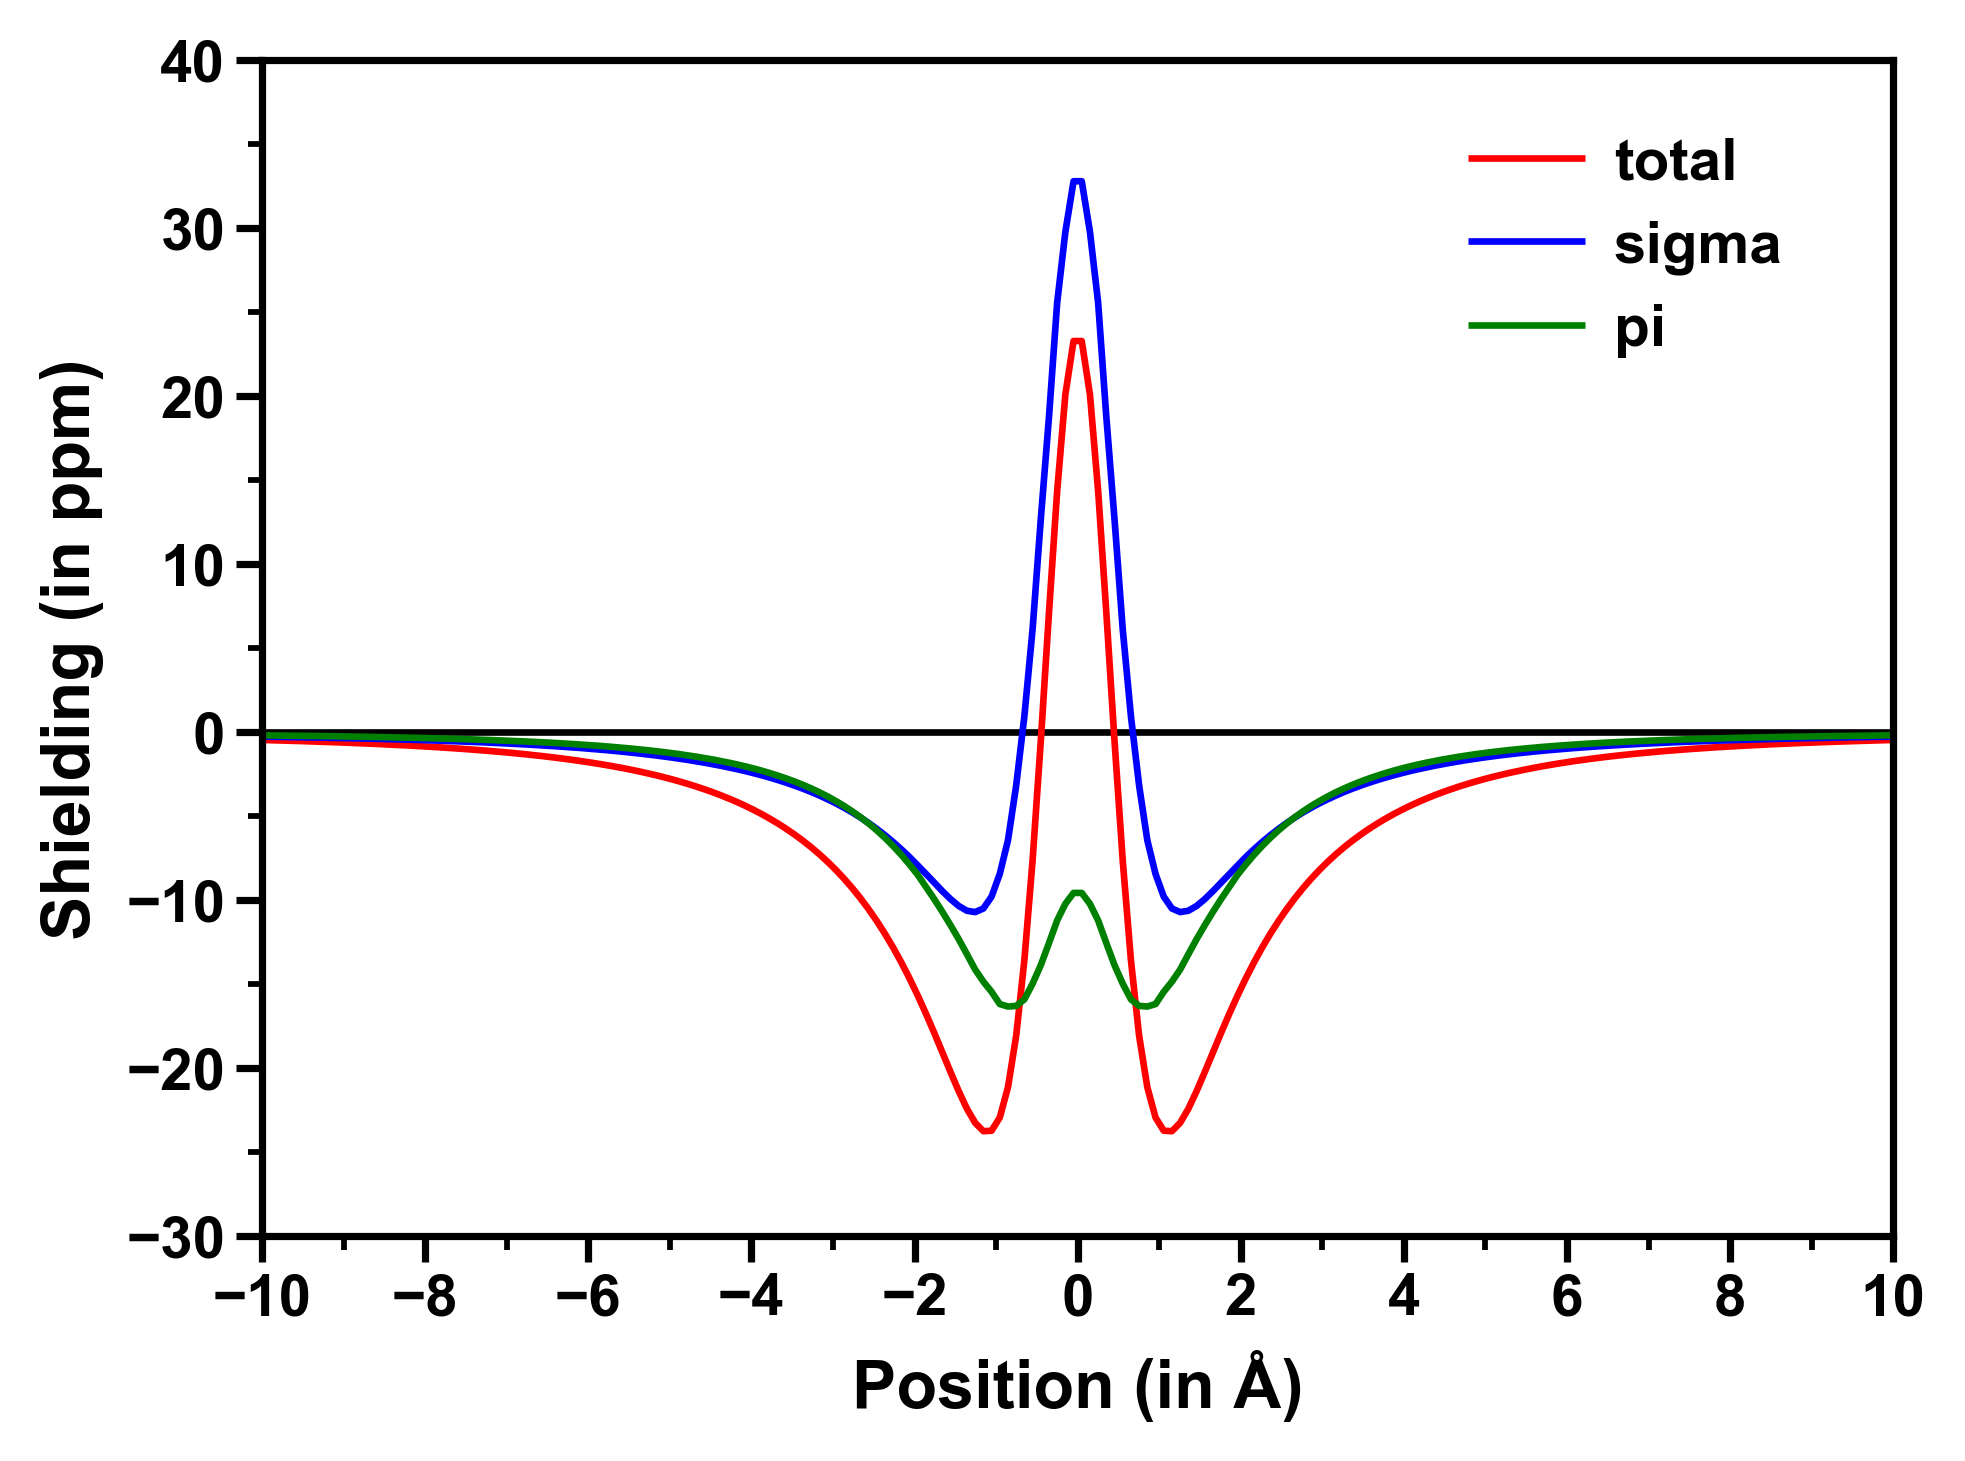
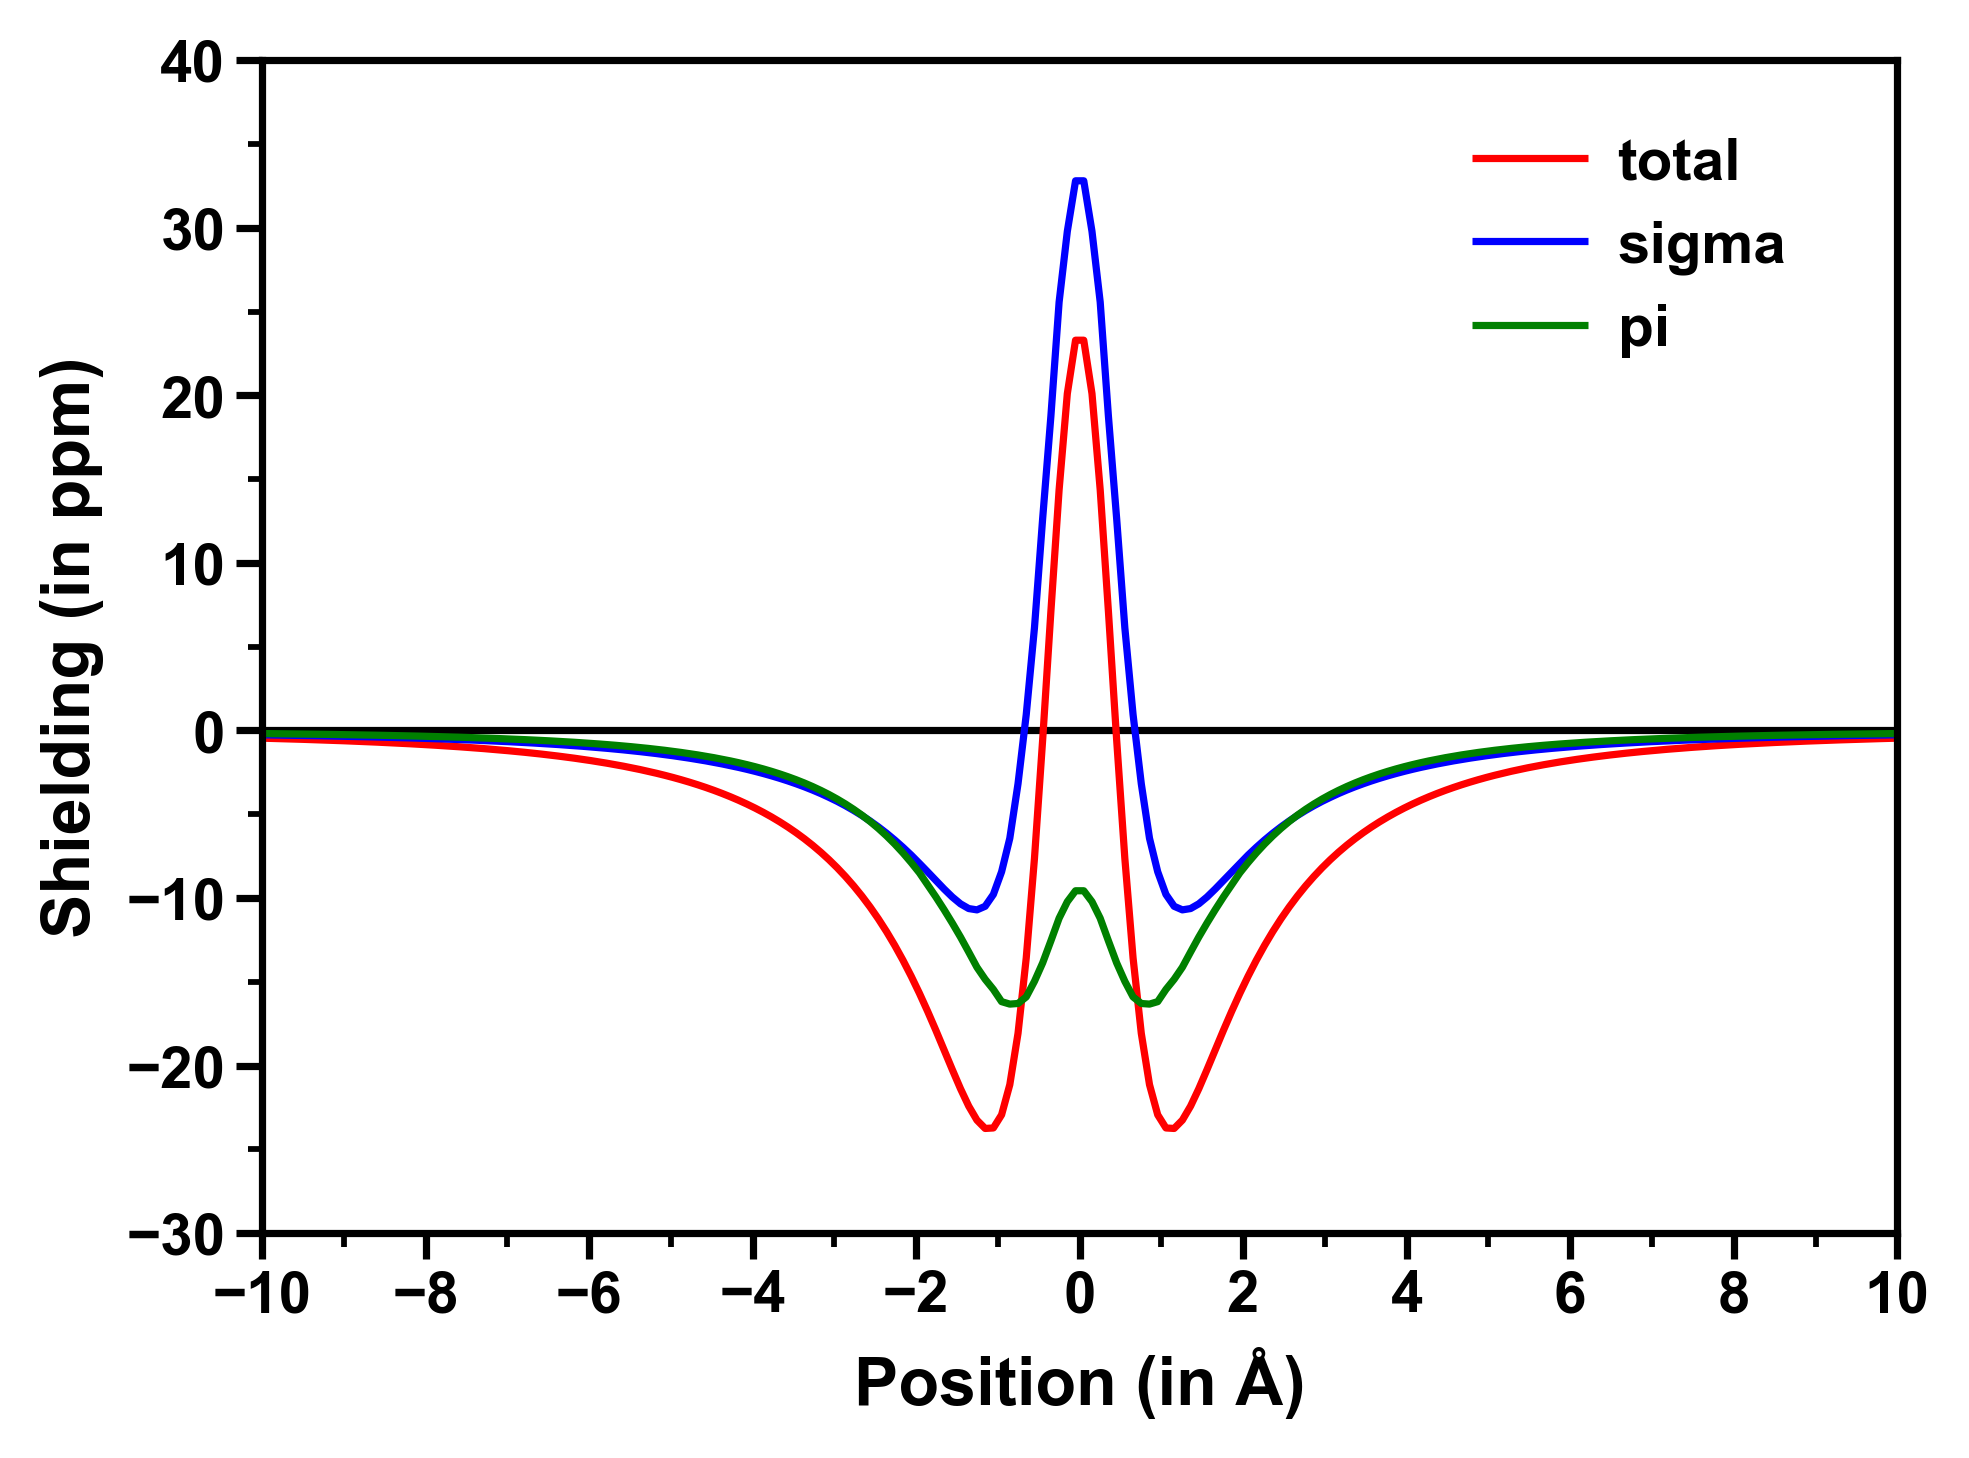
update scan

diff --git a/utils/auto.py b/utils/auto.py
@@ -1,0 +1,88 @@
+import math
+
+
+def auto_lim(max_value, min_value, is_deviation=False):
+    """
+    根据最大值和最小值，自动生成一个较为整齐的 xlim 或 ylim，lim 包括 x 或 y 轴的最大值，x 或 y 轴的最小值，
+    以及 x 或 y 轴的刻度 locator
+    :param max_value: x 或 y 数据的最大值
+    :param min_value: x 或 y 数据的最小值
+    :param is_deviation 是否允许误差，默认为 False
+    :return: 返回一个 auto lim list [lim_min, lim_max, locator]
+    """
+    # 初始化一个理想的刻度间隔段数，即希望刻度区间有多少段
+    split_number = 4
+    # 初始化一个魔术数组
+    magic_array = [2, 5, 10, 15, 20, 25, 30, 40, 50, 60, 70, 80, 90, 100]  # 计算出初始间隔 temp_gap 和缩放比例 multiple
+    temp_gap = (max_value - min_value) / split_number
+    # temp_gap 除以 magic_array 后刚刚处于魔数区间内，先求 multiple 的幂 10 指数，
+    # 例如当 temp_gap 为 120，想要把 temp_gap 映射到魔数数组（即处理为 10 到 100 之间的数），则倍数为 10，即 10 的 1 次方。
+    multiple = 10 ** (math.floor(math.log10(temp_gap) - 1))
+    # 查找大于temp_gap / multiple的第一个魔术数字
+    estep = next((val * multiple for val in magic_array if val > temp_gap / multiple), None)
+
+    # 求出期望的最大刻度和最小刻度，为 estep 的整数倍
+    maxi, mini = count_degree(estep, max_value, min_value)
+
+    if not is_deviation:
+        while True:
+            temp_split_number = round((maxi - mini) / estep)
+            # 根据条件判断更新最大值和最小值
+            if (maxi == 0 or mini - min_value <= maxi - max_value) and temp_split_number < split_number:
+                mini -= estep  # 更新最小值（向左移动）
+            else:
+                maxi += estep  # 更新最大值（向右移动）
+            # 达到预期的分割数量，退出循环
+            if temp_split_number == split_number:
+                break
+            if temp_split_number > split_number:
+                # 查找当前魔术数字的索引
+                magic_idx = next((i for i, val in enumerate(magic_array) if val * multiple == estep), None)
+                # 如果索引存在且不是最后一个，更新 estep 和最大值最小值
+                if magic_idx is not None and magic_idx < len(magic_array) - 1:
+                    estep = magic_array[magic_idx + 1] * multiple  # 更新 estep（增加）
+                    maxi, mini = count_degree(estep, max_value, min_value)  # 更新最大值和最小值
+                else:
+                    break
+            else:
+                # 查找当前魔术数字的索引
+                magic_idx = next((i for i, val in enumerate(magic_array) if val * multiple == estep), None)
+                # 如果索引存在且不是第一个，更新 estep 和最大值最小值
+                if magic_idx is not None and magic_idx > 0:
+                    estep = magic_array[magic_idx - 1] * multiple  # 更新 estep（减少）
+                    maxi, mini = count_degree(estep, max_value, min_value)  # 更新最大值和最小值
+                else:
+                    break
+
+    # 得到间距
+    interval = (maxi - mini) / split_number
+
+    lim = [mini, maxi, interval]
+
+    return lim
+
+
+def count_degree(estep, max_value, min_value, symmetrical=False):
+    """
+    求出期望的最大刻度和最小刻度，为 estep 的整数倍
+    :param estep: 最佳期望的间隔
+    :param max_value: 数据的最大值
+    :param min_value: 数据的最小值
+    :param symmetrical: 是否开启正负刻度
+    :return:
+    """
+    # 最终效果是当 max/estep 属于 (-1,Infinity) 区间时，向上取 1 格，否则取 2 格。
+    # 当 min/estep 属于 (-Infinity,1) 区间时，向下取 1 格，否则取 2 格。
+    maxi = int(max_value / estep + 1) * estep
+    mini = int(min_value / estep - 1) * estep
+    # 如果 max 和 min 刚好在刻度线的话，则按照上面的逻辑会向上或向下多取一格
+    if max_value == 0:
+        maxi = 0
+    if min_value == 0:
+        mini = 0
+    if symmetrical and maxi * mini <= 0:
+        tm = max(abs(maxi), abs(mini))
+        maxi = tm
+        mini = -tm
+
+    return maxi, mini

diff --git a/line curve/scan-relax/scan.py b/line curve/scan-relax/scan.py
@@ -1,0 +1,97 @@
+import numpy as np
+import pandas as pd
+import proplot as pplt
+
+from proplot import rc
+from scipy import interpolate
+
+from utils.auto import auto_lim
+
+# 标题、x 和 y 轴 label
+# 可以直接在 txt 中读取，也可以自行配置
+title = None
+xlabel = "Scan Coordinate"
+ylabel = "Relative Energy (kJ/mol)"
+# 如果 title、xlabel 和 ylabel 为 None 则在 txt 文件中找
+# 打开 txt 文件，扫描 txt 文件中的前三行
+with open('scan.txt', 'r', encoding='utf-8') as file:
+    # 初始化 lines 变量
+    lines = []
+    for _ in range(3):
+        line = file.readline().strip()
+        # 判断是否存在 # 号开头的行
+        if line.startswith('#'):
+            line = line.lstrip('#').strip()
+        # 如果不存在则直接跳出循环
+        else:
+            break
+        lines.append(line)
+    if title is None:
+        title = lines[0]
+    if xlabel is None:
+        xlabel = lines[1]
+    if ylabel is None:
+        ylabel = lines[2]
+
+# 全局字体
+fontname = "Arial"
+# 全局字号，分别为普通字体、标签字体和标题字体
+fontsize = [10.5, 12, 14]
+# 颜色主题，可以修改自己喜欢的颜色或者 16 进制颜色，第一个颜色为折线颜色，第二个颜色为点的颜色
+colors = ["#D8005E", "#3233A6"]
+# x 轴和 y 轴的刻度以及间距 [min, max, ticked]
+xlim = [-180, 180, 60]
+ylim = [-10, 40, 10]
+
+# 使用 Pandas 读取 Gaussian 生成的 txt 文件中的数据
+data = pd.read_csv("scan.txt", delim_whitespace=True, header=None, skiprows=4, names=['X', 'Y'])
+# 将 DataFrame 对象中 Y 减去最小值 yMin 同时乘以 2625.51
+data['Y'] = (data['Y'] - data['Y'].min()) * 2625.51
+
+# 设置绘图的默认参数，如字体、字号等
+rc['font.family'] = fontname
+rc['title.size'] = fontsize[2]
+rc['label.size'] = fontsize[1]
+rc['font.size'] = fontsize[0]
+# 设置其他参数
+rc['tick.width'] = 1.3
+rc['meta.width'] = 1.3
+rc['title.weight'] = 'bold'
+rc['label.weight'] = 'bold'
+rc['tick.labelweight'] = 'bold'
+rc['ytick.major.size'] = 4.6
+rc['ytick.minor.size'] = 2.5
+rc['xtick.major.size'] = 4.6
+rc['xtick.minor.size'] = 2.5
+
+# 创建实例
+fig, ax = pplt.subplots(figsize=(5.4 * 0.9, 4 * 0.9))
+
+# 使用插值函数，让折线图变平滑
+f = interpolate.interp1d(data['X'].values, data['Y'].values, kind='quadratic')
+xNew = np.linspace(data['X'].min(), data['X'].max(), 101)
+yNew = f(xNew)
+
+# 绘制平滑曲线图
+ax.plot(xNew, yNew, color=colors[0], linewidth=1.3, zorder=1)
+# 绘制实际的点
+ax.scatter(data['X'], data['Y'], color=colors[1], zorder=2, edgecolor='black')
+
+# 如果 ylim 和 xlim 为 None 或空，则调用自动生成坐标轴刻度
+if ylim is None or ylim == []:
+    ylim = auto_lim(data['Y'].max(), data['Y'].min())
+if xlim is None or xlim == []:
+    xlim = auto_lim(data['X'].max(), data['X'].min())
+
+# 格式化图像
+fig.format(
+    grid=False, ylabel=ylabel, xlabel=xlabel, title=title,
+    xlim=(xlim[0], xlim[1]), xminorlocator=(xlim[2] / 2), xlocator=xlim[2], ylim=(ylim[0], ylim[1]),
+    yminorlocator=(ylim[2] / 2), ylocator=ylim[2]
+)
+
+# 显示图像
+fig.show()
+
+# 保存图像
+fig.savefig("scan.png", dpi=400, bbox_inches="tight")

diff --git a/line curve/NICS-1D/NICS-1D.py b/line curve/NICS-1D/NICS-1D.py
@@ -21,6 +21,9 @@ if colors is None or colors == []:
     # 蓝 #0000FF
     # 紫 #8B00FF
     colors = ['#FF0000', '#FF7F00', '#FFFF00', '#00FF00', '#00FFFF', '#0000FF', '#8B00FF']
+# x 轴和 y 轴的刻度以及间距 [min, max, ticked]
+xlim = [-10, 10, 2]
+ylim = [-30, 40, 10]
 
 # 读取 Multiwfn 生成的 NICS-1D-all、sigma、pi 的数据
 # 如果需要修改，请修改 NICS_1D_pi.txt、NICS_1D_sigma.txt 以及 NICS_1D_all.txt
@@ -47,14 +50,14 @@ rc['xtick.minor.size'] = 2.5
 fig, ax = pplt.subplots(figsize=(5.4 * 0.9, 4 * 0.9))
 
 # 绘制整体贡献的 NICS 曲线
-ax.plot(nics_all.iloc[:, -2], nics_all.iloc[:, -1], label='total', linewidth=1.2, color=colors[0])
+ax.plot(nics_all.iloc[:, -2], nics_all.iloc[:, -1], label='total', linewidth=1.3, color=colors[0])
 # 绘制 sigma 体系贡献的 NICS 曲线
-ax.plot(nics_sigma.iloc[:, -2], nics_sigma.iloc[:, -1], label='sigma', linewidth=1.2, color=colors[1])
+ax.plot(nics_sigma.iloc[:, -2], nics_sigma.iloc[:, -1], label='sigma', linewidth=1.3, color=colors[1])
 # 绘制 pi 体系贡献的 NICS 曲线
-ax.plot(nics_pi.iloc[:, -2], nics_pi.iloc[:, -1], label='pi', linewidth=1.2, color=colors[2])
+ax.plot(nics_pi.iloc[:, -2], nics_pi.iloc[:, -1], label='pi', linewidth=1.3, color=colors[2])
 
 # 在 y=0 处绘制一条虚线
-ax_line = ax.axhline(y=0, color='black', linewidth=1.2)
+ax_line = ax.axhline(y=0, color='black', linewidth=1.3)
 # 设置为最底层
 ax_line.set_zorder(0)
 
@@ -64,7 +67,8 @@ ax.legend(loc='ur', ncols=1, fontweight='bold', fontsize='12.5', frame=False, bb
 # 格式化图像
 fig.format(
     grid=False, ylabel='Shielding (in ppm)', xlabel='Position (in Å)',
-    xlim=(-10, 10), xminorlocator=1, xlocator=2, ylim=(-30, 40), yminorlocator=5, ylocator=10
+    xlim=(xlim[0], xlim[1]), xminorlocator=(xlim[2] / 2), xlocator=xlim[2], ylim=(ylim[0], ylim[1]),
+    yminorlocator=(ylim[2] / 2), ylocator=ylim[2]
 )
 
 # 显示图像
